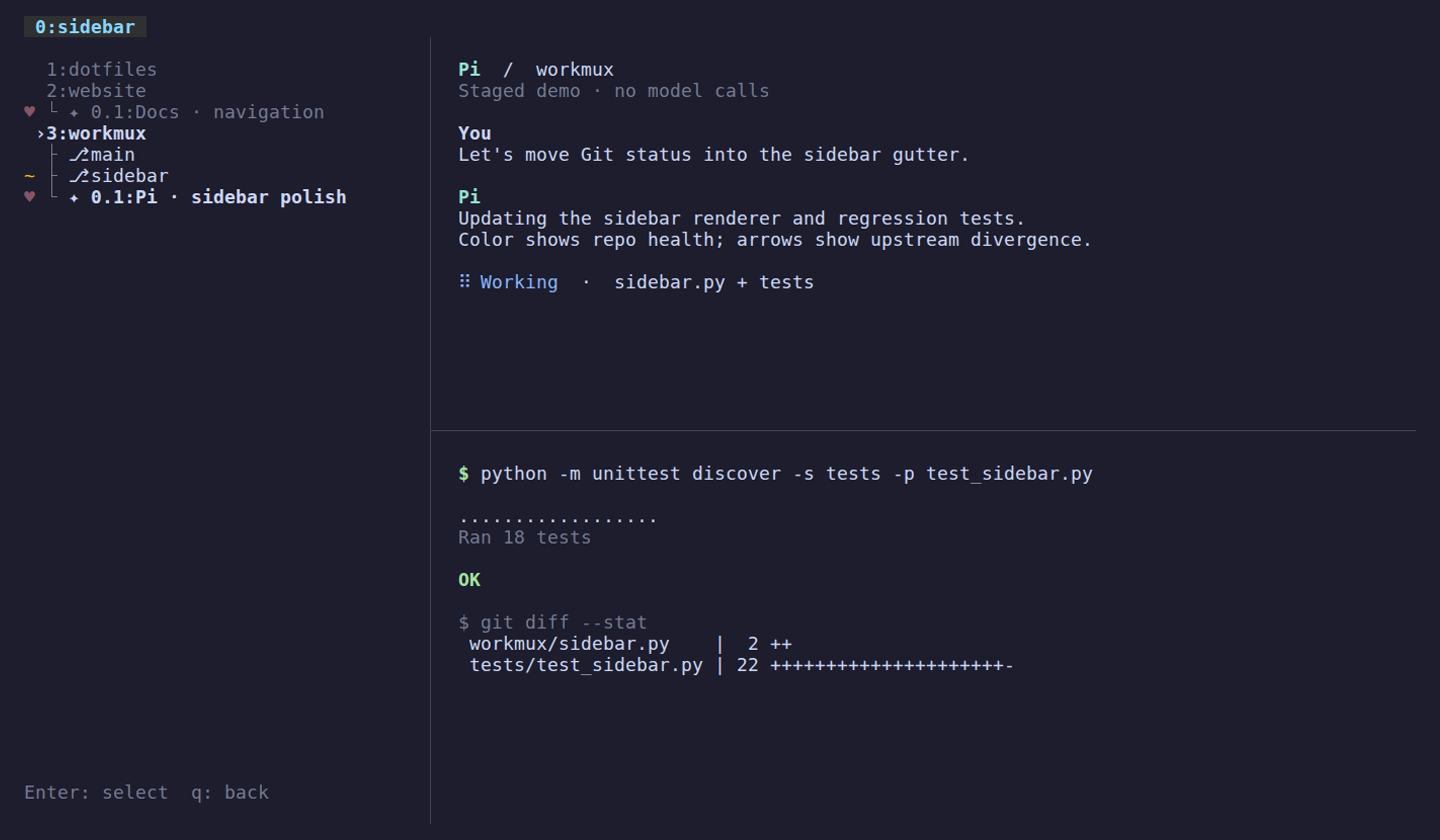
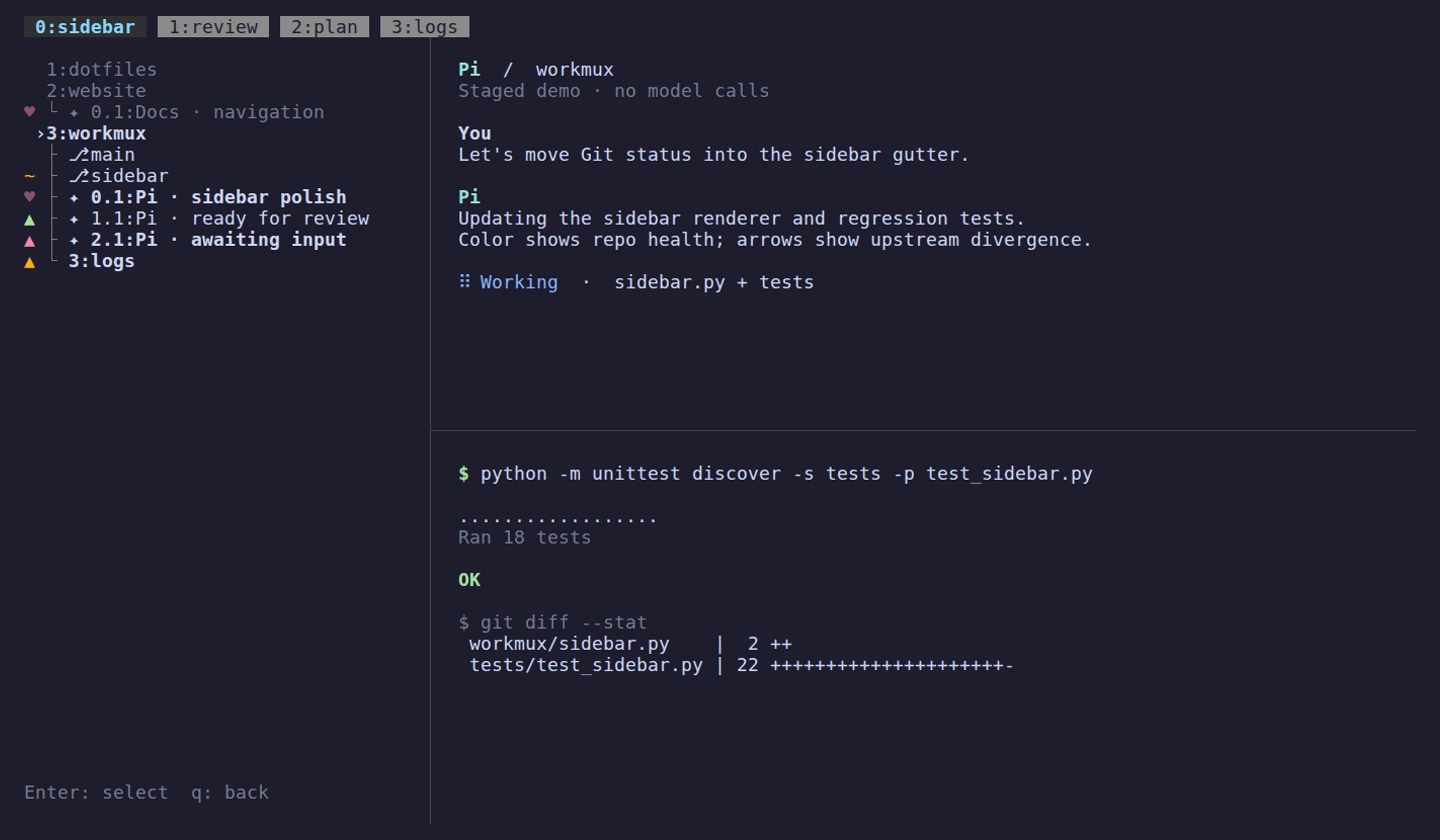
Show sidebar alerts as colored triangles

Changed region(s): [[0.0938, 0.0, 0.3438, 0.0619], [0.0312, 0.2476, 0.25, 0.3405]]

diff --git a/tests/test_integration.py b/tests/test_integration.py
@@ -1656,18 +1656,20 @@ class TmuxIntegrationTests(unittest.TestCase):
         current = self.tmux.new_tab(pane, "current")
         sidebar = next(item for item in self.tmux.panes(self.tmux.pane(current).window) if item.sidebar)
         self.attach(session)
-        for state, indicators in (("working", ("♥",)), ("attention", ("⚠",)), ("finished", ("✓",))):
+        for state, symbol in (("working", "♥"), ("attention", "\x1b[31m▲"), ("finished", "\x1b[32m▲")):
             self.tmux.report_agent_state(pane, state, os.getpid())
             if state != "working":
                 self.tmux.run("send-keys", "-t", pane, "printf '\\a'", "Enter")
-            eventually(lambda: pane_contains_any(self.tmux, sidebar.id, indicators))
+            eventually(lambda: any(symbol in line and "✦" in line for line in
+                                   self.tmux.run("capture-pane", "-ep", "-t", sidebar.id).splitlines()),
+                       f"sidebar did not show the {state} indicator")
             tab = next(tab for tab in self.tmux.attention_tabs() if tab.id == window)
             self.assertEqual(tab.state, state)
             self.assertEqual(tab.pane, pane)
             self.assertEqual(tab.session, session)
         self.tmux.report_agent_state(pane, "idle")
         self.tmux.run("select-window", "-t", window)
-        eventually(lambda: not any(line.startswith('✓ ') for line in
+        eventually(lambda: not any(line.startswith('▲ ') for line in
                                    self.tmux.run("capture-pane", "-p", "-t", sidebar.id).splitlines()))
         self.assertFalse(any(tab.id == window for tab in self.tmux.attention_tabs()))
         with self.assertRaisesRegex(WorkmuxError, "sidebar"):
@@ -1821,7 +1823,7 @@ class TmuxIntegrationTests(unittest.TestCase):
         self.tmux.run("send-keys", "-t", content.id, "printf '\\a'", "Enter")
         eventually(lambda: any(tab.id == content.window and tab.state == "alert"
                                for tab in self.tmux.attention_tabs()))
-        eventually(lambda: any(line.startswith("◆ └ ") for line in
+        eventually(lambda: any(line.startswith("▲ └ ") for line in
                                self.tmux.run("capture-pane", "-p", "-t", sidebar.id).splitlines()))
         # Child of the first workspace: pane row 2, plus the top status line.
         os.write(master, b"\x1b[<0;3;4M\x1b[<0;3;4m")
@@ -1837,7 +1839,7 @@ class TmuxIntegrationTests(unittest.TestCase):
         self.tmux.run("send-keys", "-t", content.id, "printf '\\a'", "Enter")
         eventually(lambda: any(tab.id == content.window and tab.state == "alert"
                                for tab in self.tmux.attention_tabs()))
-        eventually(lambda: any(line.startswith("◆ └ ") for line in
+        eventually(lambda: any(line.startswith("▲ └ ") for line in
                                self.tmux.run("capture-pane", "-p", "-t", sidebar.id).splitlines()),
                    "native alert did not appear in the gutter of the inactive workspace")
 
@@ -1847,16 +1849,17 @@ class TmuxIntegrationTests(unittest.TestCase):
         window = self.tmux.pane(current).window
         sidebar = next(item for item in self.tmux.panes(window) if item.sidebar)
         master, _, _ = self.attach(session)
-        for state, indicator in (("attention", "⚠"), ("finished", "✓")):
+        for state, color in (("attention", 31), ("finished", 32)):
             with self.subTest(state=state):
                 self.tmux.run("select-window", "-t", window)
                 self.tmux.report_agent_state(content.id, state, os.getpid())
                 self.tmux.run("send-keys", "-t", content.id, "printf '\\a'", "Enter")
-                eventually(lambda: pane_contains_any(self.tmux, sidebar.id, (indicator,)))
+                eventually(lambda: f"\x1b[{color}m▲" in
+                           self.tmux.run("capture-pane", "-ep", "-t", sidebar.id))
                 os.write(master, b"\x1b[<0;3;4M\x1b[<0;3;4m")
                 eventually(lambda: self.tmux.pane(session + ":").id == content.id)
                 eventually(lambda: not any(tab.id == content.window for tab in self.tmux.attention_tabs()))
-                eventually(lambda: not pane_contains_any(self.tmux, original_sidebar.id, (indicator,)))
+                eventually(lambda: not pane_contains_any(self.tmux, original_sidebar.id, ("▲",)))
                 report = json.loads(self.tmux.run("show-options", "-pqv", "-t", content.id, "@workmux-agent"))
                 self.assertEqual(report["state"], state)  # Clearing alerts need not mutate agent reports.
         self.tmux.report_agent_state(content.id, "working", os.getpid())
@@ -1875,7 +1878,7 @@ class TmuxIntegrationTests(unittest.TestCase):
         self.tmux.run("set-option", "-s", "focus-events", "on")
         master, _, client = self.attach(first)
         self.tmux.run("send-keys", "-t", attention, "printf '\\a'", "Enter")
-        eventually(lambda: any(line.startswith('⚠ ') and '✦' in line for line in
+        eventually(lambda: any(line.startswith('▲ ') and '✦' in line for line in
                                self.tmux.run("capture-pane", "-p", "-t", sidebar.id).splitlines()))
         # First workspace, second workspace, then its child: global terminal row 5.
         os.write(master, b"\x1b[<0;3;5M\x1b[<0;3;5m")

diff --git a/tests/test_agent_states.py b/tests/test_agent_states.py
@@ -259,12 +259,12 @@ class SidebarTreeTests(unittest.TestCase):
                 colors = status_attributes()
 
                 self.assertEqual(colors, {"working": 256, "attention": 512,
-                                          "finished": 768, "other": 1024,
+                                          "finished": 768, "alert": 1024,
                                           "git-clean": 1280, "git-dirty": 1536,
                                           "git-conflict": 1792})
                 self.assertEqual([call.args[1] for call in init_pair.call_args_list],
                                  [curses.COLOR_RED, curses.COLOR_RED,
-                                  curses.COLOR_GREEN, curses.COLOR_YELLOW,
+                                  curses.COLOR_GREEN, amber,
                                   curses.COLOR_BLUE, amber, curses.COLOR_RED])
 
     def test_only_the_filled_heart_dims_between_beats(self):
@@ -283,13 +283,13 @@ class SidebarTreeTests(unittest.TestCase):
                     ])
 
     def test_agent_status_uses_gutter_without_changing_title_or_spark(self):
-        for state, indicator in (('working', '♥'), ('attention', '⚠'), ('finished', '✓')):
+        for state, indicator in (('working', '♥'), ('attention', '▲'), ('finished', '▲')):
             for prefix in ('└', '│  └', '   └'):
                 with self.subTest(state=state, prefix=prefix):
                     screen = Mock()
                     screen.getmaxyx.return_value = (20, 80)
                     # A title containing status symbols must be rendered verbatim.
-                    text = f'{prefix} ✦ 2.1:♥ ⚠ ✓ title'
+                    text = f'{prefix} ✦ 2.1:♥ ▲ title'
                     row = SidebarRow('$1', '@1', text, state, pane='%7')
                     draw_row(screen, 2, row, curses.A_REVERSE | curses.A_DIM,
                              {state: 256}, working_resting=True)
@@ -301,16 +301,16 @@ class SidebarTreeTests(unittest.TestCase):
 
     def test_native_alert_is_undimmed_in_the_gutter_with_or_without_color(self):
         for attr in (curses.A_BOLD, curses.A_REVERSE | curses.A_DIM):
-            for colors in ({}, {"other": 1024}):
+            for colors in ({}, {"alert": 1024}):
                 with self.subTest(attr=attr, colors=colors):
                     screen = Mock()
                     screen.getmaxyx.return_value = (20, 80)
-                    row = SidebarRow("$1", "@1", "└ 1:logs ◆ in title", "alert")
+                    row = SidebarRow("$1", "@1", "└ 1:logs ▲ in title", "alert")
                     draw_row(screen, 2, row, attr, colors)
                     self.assertEqual([call.args for call in screen.addnstr.call_args_list], [
-                        (2, 0, "◆ └ 1:logs ◆ in title", 79, attr),
+                        (2, 0, "▲ └ 1:logs ▲ in title", 79, attr),
                         (2, 2, "└", 1, attr | curses.A_DIM),
-                        (2, 0, "◆", 1, (attr & ~curses.A_DIM) | colors.get("other", 0)),
+                        (2, 0, "▲", 1, (attr & ~curses.A_DIM) | colors.get("alert", 0)),
                     ])
 
     def test_idle_tabs_are_hidden_and_children_are_in_window_order(self):

diff --git a/workmux/sidebar.py b/workmux/sidebar.py
@@ -10,7 +10,7 @@ import time
 from .core import Tab, Tmux, WorkmuxError, Workspace
 from .git_status import GitStatus
 from .sidebar_state import SidebarState
-from .status import INDICATORS, WindowIndicators
+from .status import WindowIndicators
 
 
 AGENT_ROW_STATES = ("working", "attention", "finished")
@@ -18,13 +18,14 @@ SNAPSHOT_INTERVAL = 0.4
 HEART_PERIOD_SECONDS = 1.0
 HEART_TRANSITIONS = ((0.7, True), (0.8, False), (0.9, True))  # End offset, resting.
 WHEEL_SCROLL_ROWS = 3
+SIDEBAR_INDICATORS = {"working": "♥", "attention": "▲", "finished": "▲", "alert": "▲"}
 GIT_DIVERGENCE = {"ahead": "↑", "behind": "↓", "diverged": "↕"}
-GIT_AMBER_256 = 214
+AMBER_256 = 214
 STATUS_FOREGROUNDS = {
     "working": curses.COLOR_RED,
     "attention": curses.COLOR_RED,
     "finished": curses.COLOR_GREEN,
-    "other": curses.COLOR_YELLOW,
+    "alert": curses.COLOR_YELLOW,
     "git-clean": curses.COLOR_BLUE,
     "git-dirty": curses.COLOR_YELLOW,  # Fallback for terminals without 256 colors.
     "git-conflict": curses.COLOR_RED,
@@ -73,7 +74,7 @@ def sidebar_rows(workspaces: list[Workspace], tabs: list[Tab],
     git_states, checkouts, checkout_windows = git_states or {}, checkouts or {}, checkout_windows or {}
     children = {}
     for tab in tabs:
-        if tab.state in INDICATORS:
+        if tab.state in SIDEBAR_INDICATORS:
             children.setdefault(tab.session, []).append(tab)
     rows = []
     for position, workspace in enumerate(workspaces, 1):
@@ -132,8 +133,8 @@ def status_attributes() -> dict[str, int]:
         curses.use_default_colors()
         attributes = {}
         for pair, (state, foreground) in enumerate(STATUS_FOREGROUNDS.items(), 1):
-            if state == "git-dirty" and curses.COLORS >= 256:
-                foreground = GIT_AMBER_256
+            if foreground == curses.COLOR_YELLOW and curses.COLORS >= 256:
+                foreground = AMBER_256
             curses.init_pair(pair, foreground, -1)
             attributes[state] = curses.color_pair(pair)
         return attributes
@@ -170,10 +171,9 @@ def draw_row(screen, position: int, row: SidebarRow, attribute: int,
              colors: dict[str, int], *, workspace_marker: str = " ", working_resting: bool = False) -> None:
     """Draw status and navigation marks independently of workspace dimming."""
     state = row.state or ""
-    indicator = INDICATORS.get(state, "")
-    if indicator:
-        color = "other" if state == "alert" else state
-    else:
+    indicator = SIDEBAR_INDICATORS.get(state, "")
+    color = state
+    if not indicator:
         indicator, color = _git_indicator(row.git_states)
     draw_text(screen, position, f"{indicator or ' '}{workspace_marker}{row.text}", attribute)
     if workspace_marker != " " and attribute & curses.A_DIM:

diff --git a/scripts/demo.py b/scripts/demo.py
@@ -25,9 +25,9 @@ def repository(path: Path) -> None:
                     "commit", "-q", "--allow-empty", "-m", "Initial commit"], check=True)
 
 
-def display(tmux: Tmux, pane: str, title: str, lines: list[str], directory: Path) -> None:
+def display(tmux: Tmux, pane: str, title: str, lines: list[str], directory: Path, *, bell: bool = False) -> None:
     """Use a live, idle process instead of invoking any agent or external service."""
-    text = "\033[2J\033[H\033[?25l\n" + "\n".join(lines) + "\n"
+    text = "\033[2J\033[H\033[?25l\n" + "\n".join(lines) + "\n" + ("\a" if bell else "")
     program = "import signal,sys; sys.stdout.write(" + repr(text) + "); sys.stdout.flush(); signal.pause()"
     tmux.run("respawn-pane", "-k", "-t", pane, "-c", str(directory),
              shlex.join([sys.executable, "-c", program]))
@@ -97,8 +97,17 @@ def main() -> None:
                 display(tmux, content, "Docs · navigation", ["  Demo workspace"], base / name)
                 if name == "website":
                     tmux.report_agent_state(content, "working")
+            background = [(tmux.new_tab(primary, name), title, state) for name, title, state in (
+                ("review", "Pi · ready for review", "finished"),
+                ("plan", "Pi · awaiting input", "attention"),
+                ("logs", "Build logs", None),
+            )]
             tmux.run("select-window", "-t", primary)
             tmux.run("select-pane", "-t", primary)
+            for pane, title, state in background:
+                if state:
+                    tmux.report_agent_state(pane, state)
+                display(tmux, pane, title, [f"  {title}"], project / "main", bell=True)
             tmux.run("set-option", "-g", "status-style", "bg=default,fg=colour245")
             tmux.run("set-option", "-g", "window-status-current-style", "bold,fg=colour117,bg=colour236")
             tmux.run("set-option", "-g", "pane-border-style", "fg=colour238")

diff --git a/README.md b/README.md
@@ -218,7 +218,7 @@ basename. Checkouts and agents are direct children of the workspace:
   ├ ⎇ frontend
 ⣷ ├ ✦ 1.0:coordinate
 ⣷ ├ ✦ 2.0:implement
-⚠ └ ✦ 3.0:review
+▲ └ ✦ 3.0:review
 ```
 
 Checkout labels may repeat when directories share a basename; each row still
@@ -304,25 +304,26 @@ alongside checkouts:
 ```text
  ›1:project-a
 ♥ ├ ✦ 1.0:build
-⚠ └ ✦ 2.0:review
+▲ └ ✦ 2.0:review
   2:project-b
-✓ ├ ✦ 1.0:changes
-◆ └ 2:logs
+▲ ├ ✦ 1.0:changes
+▲ └ 2:logs
 ```
 
 | Indicator | Color | State |
 | --- | --- | --- |
 | `♥` | Red | Agent working |
-| `⚠` | Red | Agent needs attention: a blocking input dialog, error, or interruption |
-| `✓` | Green | Agent finished its run |
-| `◆` | Yellow | Other tmux alert: bell, monitored activity, or silence |
+| `▲` | Red | Agent needs attention: a blocking input dialog, error, or interruption |
+| `▲` | Green | Agent finished its run |
+| `▲` | Amber | Other tmux alert: bell, monitored activity, or silence |
 
 Agent status and native alert symbols occupy the left gutter and aren't dimmed
-by inactive workspaces. On terminals that support dim text, the red heart repeats
-a double beat every second: dim for 700 ms, bright for 100 ms, dim for 100 ms,
-bright for 100 ms. The `✦` identifies an agent row. Each active agent pane gets
-its own row, even when several share a tab. Selecting one focuses that pane,
-including in another workspace.
+by inactive workspaces. Amber falls back to yellow on basic color terminals.
+Without color support the triangles look the same. On terminals that support
+dim text, the red heart repeats a double beat every second: dim for 700 ms,
+bright for 100 ms, dim for 100 ms, bright for 100 ms. The `✦` identifies an
+agent row. Each active agent pane gets its own row, even when several share a
+tab. Selecting one focuses that pane, including in another workspace.
 
 Labels use `window.pane:title`, for example `2.1:build`, using the pane's terminal
 title or falling back to the tab name. Rows follow window-index order beneath
@@ -616,8 +617,10 @@ To show activity beside tab names, uncomment both window formats in the config
 example and adapt them to your styling. The guard leaves other sessions with the
 usual index, name, and flags; `enable` does not install these formats.
 The `@workmux-agent-indicator` window option contains a plain activity symbol,
-without colors or Git status, and is empty when idle. It uses the sidebar's
-priority and alert-clearing rules without changing window names.
+without colors or Git status, and is empty when idle. It uses distinct glyphs
+(`⚠` for attention, `✓` for finished, `◆` for other alerts) so the states remain
+readable without color. It follows the sidebar's priority and alert-clearing
+rules without changing window names.
 
 At least one sidebar must be running on the server. The tab bar shows a steady
 `♥` while an agent is working; only the sidebar pulses. This works without
